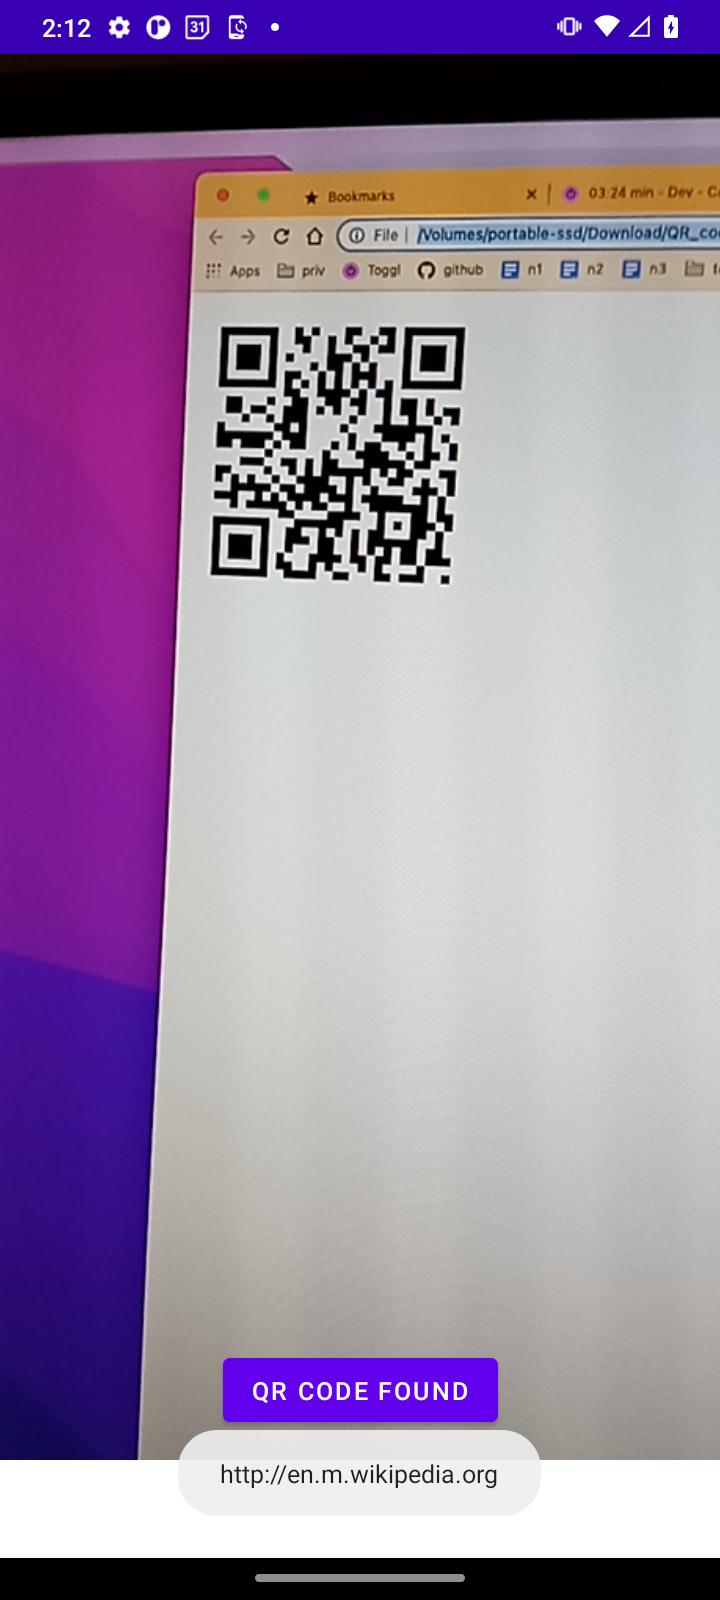
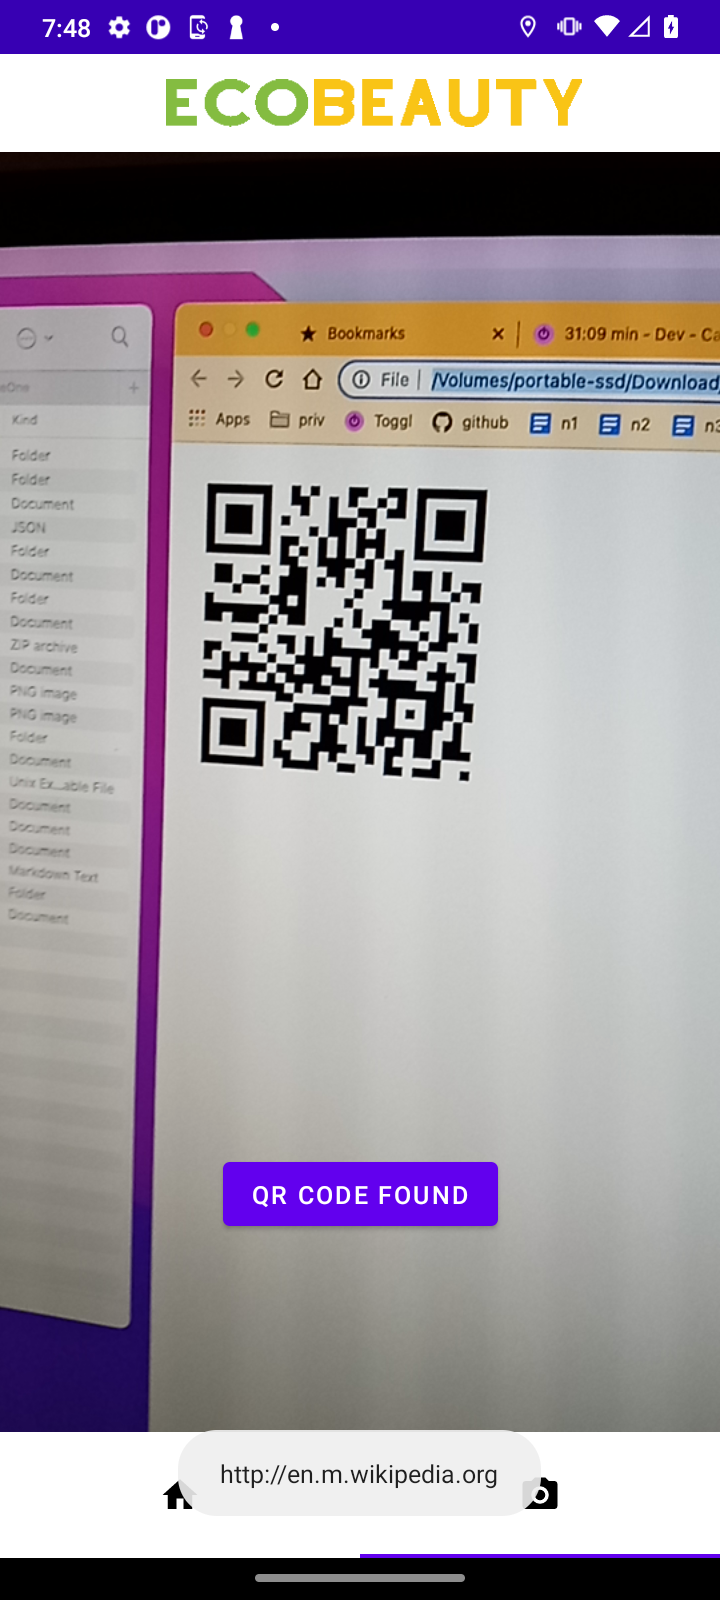
Tab bar switching between pages Screenshots updated.

diff --git a/app/src/main/java/com/example/beautyandroid/CollectionPagerAdapter.java b/app/src/main/java/com/example/beautyandroid/CollectionPagerAdapter.java
@@ -1,0 +1,88 @@
+//
+//  CollectionPagerAdapter.java
+//
+//  Created by Mathieu Delehaye on 19/12/2022.
+//
+//  BeautyAndroid: An Android app to order and recycle cosmetics.
+//
+//  Copyright © 2022 Mathieu Delehaye. All rights reserved.
+//
+//
+//  This program is free software: you can redistribute it and/or modify it under the terms of the GNU Affero General Public License as published by
+//  the Free Software Foundation, either version 3 of the License, or (at your option) any later version.
+//
+//  This program is distributed in the hope that it will be useful, but WITHOUT ANY WARRANTY; without even the implied warranty of MERCHANTABILITY or FITNESS
+//  FOR A PARTICULAR PURPOSE. See the GNU Affero General Public License for more details.
+//
+//  You should have received a copy of the GNU Affero General Public License along with this program. If not, see <https://www.gnu.org/licenses/>.
+
+package com.example.beautyandroid;
+
+import android.graphics.drawable.Drawable;
+import android.os.Bundle;
+import android.text.Spannable;
+import android.text.SpannableString;
+import android.text.SpannableStringBuilder;
+import android.text.Spanned;
+import android.text.style.DynamicDrawableSpan;
+import android.text.style.ImageSpan;
+import androidx.fragment.app.Fragment;
+import androidx.fragment.app.FragmentActivity;
+import androidx.fragment.app.FragmentManager;
+import androidx.fragment.app.FragmentStatePagerAdapter;
+import com.beautyorder.androidclient.FragmentCamera;
+import com.beautyorder.androidclient.FragmentMap;
+import com.beautyorder.androidclient.R;
+
+public class CollectionPagerAdapter extends FragmentStatePagerAdapter {
+    private FragmentActivity mActivity;
+
+    public CollectionPagerAdapter(FragmentManager fm, FragmentActivity fa) {
+        super(fm);
+        mActivity = fa;
+    }
+
+    @Override
+    public Fragment getItem(int i) {
+        Fragment fragment = null;
+
+        switch (i) {
+            case 0:
+                fragment = new FragmentMap();
+                return fragment;
+            case 1:
+                fragment = new FragmentCamera();
+                return fragment;
+            default:
+                return fragment;
+        }
+    }
+
+    @Override
+    public int getCount() {
+        return 2;
+    }
+
+    @Override
+    public CharSequence getPageTitle(int position) {
+
+        Drawable image;
+
+        switch (position) {
+            case 0:
+                image = mActivity.getResources().getDrawable(R.drawable.home);
+                break;
+            case 1:
+            default:
+                image = mActivity.getResources().getDrawable(R.drawable.camera);
+                break;
+        }
+
+        image.setBounds(0, 0, image.getIntrinsicWidth(), image.getIntrinsicHeight());
+        SpannableString sb = new SpannableString(" ");
+        ImageSpan imageSpan = new ImageSpan(image, ImageSpan.ALIGN_BOTTOM);
+        sb.setSpan(imageSpan, 0, 1, Spannable.SPAN_EXCLUSIVE_EXCLUSIVE);
+
+        return sb;
+    }
+}

diff --git a/app/src/main/java/com/example/beautyandroid/FragmentApp.java b/app/src/main/java/com/example/beautyandroid/FragmentApp.java
@@ -26,11 +26,15 @@ import android.view.View;
 import android.view.ViewGroup;
 import androidx.annotation.NonNull;
 import androidx.fragment.app.Fragment;
+import androidx.viewpager.widget.ViewPager;
 import com.beautyorder.androidclient.databinding.FragmentAppBinding;
+import com.example.beautyandroid.CollectionPagerAdapter;
+import com.google.android.material.tabs.TabLayout;
 import org.osmdroid.config.Configuration;
 
 public class FragmentApp extends Fragment {
     private FragmentAppBinding binding;
+    private ViewPager viewPager;
 
     @Override
     public View onCreateView(
@@ -44,15 +48,13 @@ public class FragmentApp extends Fragment {
     public void onViewCreated(@NonNull View view, Bundle savedInstanceState) {
         super.onViewCreated(view, savedInstanceState);
 
-        //load/initialize the osmdroid configuration, this can be done
-        Context ctx = view.getContext();
-        Configuration.getInstance().load(ctx, PreferenceManager.getDefaultSharedPreferences(ctx));
-        //setting this before the layout is inflated is a good idea
-        //it 'should' ensure that the map has a writable location for the map cache, even without permissions
-        //if no tiles are displayed, you can try overriding the cache path using Configuration.getInstance().setCachePath
-        //see also StorageUtils
-        //note, the load method also sets the HTTP User Agent to your application's package name, abusing osm's
-        //tile servers will get you banned based on this string
+        viewPager = view.findViewById(R.id.app_pager);
+        TabLayout tabLayout = view.findViewById(R.id.app_tabbar);
+        tabLayout.getTabAt(0).setIcon(R.drawable.home);
+        tabLayout.getTabAt(1).setIcon(R.drawable.camera);
+        tabLayout.setupWithViewPager(viewPager);
+        CollectionPagerAdapter adapter = new CollectionPagerAdapter(getChildFragmentManager(), getActivity());
+        viewPager.setAdapter(adapter);
     }
 
     @Override

diff --git a/app/src/main/java/com/example/beautyandroid/qrcode/QRCodeImageAnalyzer.java b/app/src/main/java/com/example/beautyandroid/qrcode/QRCodeImageAnalyzer.java
@@ -1,13 +1,13 @@
-package com.example.beautyandroid;
+package com.example.beautyandroid.qrcode;
 
 import android.annotation.SuppressLint;
 import android.graphics.*;
 import android.media.Image;
-import android.os.Environment;
 import android.util.Log;
 import androidx.annotation.NonNull;
 import androidx.camera.core.ImageAnalysis;
 import androidx.camera.core.ImageProxy;
+import com.example.beautyandroid.qrcode.QRCodeFoundListener;
 import com.google.android.gms.tasks.OnFailureListener;
 import com.google.android.gms.tasks.OnSuccessListener;
 import com.google.android.gms.tasks.Task;
@@ -18,7 +18,6 @@ import com.google.mlkit.vision.barcode.common.Barcode;
 import com.google.mlkit.vision.common.InputImage;
 import com.google.mlkit.vision.demo.BitmapUtils;
 
-import java.io.File;
 import java.util.List;
 
 

diff --git a/app/src/main/java/com/example/beautyandroid/qrcode/QRCodeFoundListener.java b/app/src/main/java/com/example/beautyandroid/qrcode/QRCodeFoundListener.java
@@ -1,4 +1,4 @@
-package com.example.beautyandroid;
+package com.example.beautyandroid.qrcode;
 
 public interface QRCodeFoundListener {
     void onQRCodeFound(String qrCode);
